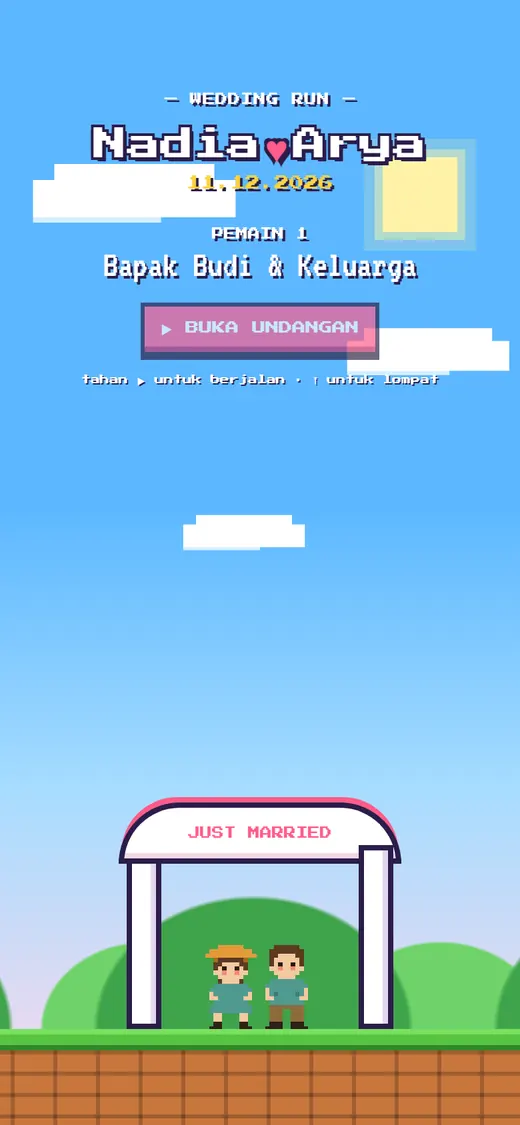
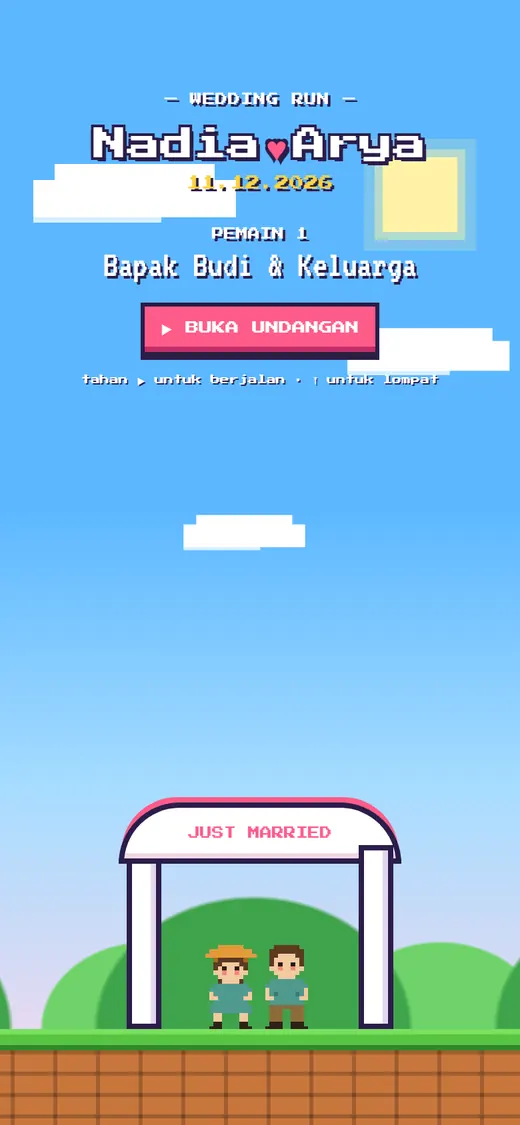
Wedding Run: kunci ke kolom portrait seperti HP

Changed region(s): [[0.2462, 0.2489, 0.7385, 0.3422], [0.4923, 0.1244, 0.5538, 0.1556]]

diff --git a/demo-platform/index.html b/demo-platform/index.html
@@ -20,7 +20,7 @@
 :root{--ink:#2b1d4a;--sky:#5cb8ff;--sky2:#ffd9ec;--grass:#57c443;--dirt:#c8763c;--pink:#ff5c8a;--gold:#ffd23f;--card:#fff8e7;--u-ink:#2b1d4a;--u-bg:#fff8e7}
 *{box-sizing:border-box;margin:0;padding:0}
 html,body{height:100%;overflow:hidden;overscroll-behavior:none}
-body{font-family:'VT323',monospace;font-size:20px;line-height:1.15;color:var(--ink);background:var(--sky);-webkit-font-smoothing:none;-webkit-user-select:none;user-select:none;-webkit-tap-highlight-color:transparent}
+body{font-family:'VT323',monospace;font-size:20px;line-height:1.15;color:var(--ink);background:#2b1d4a radial-gradient(circle 1.5px,#fff8 98%,transparent) 0 0/34px 34px;-webkit-font-smoothing:none;-webkit-user-select:none;user-select:none;-webkit-touch-callout:none;-webkit-tap-highlight-color:transparent}
 #u-root{display:contents}
 input,textarea,select{-webkit-user-select:text;user-select:text}
 /* ===== langit & latar parallax (--x = posisi kamera) ===== */
@@ -38,6 +38,8 @@ input,textarea,select{-webkit-user-select:text;user-select:text}
   background:linear-gradient(#7be05f 0 4px,var(--grass) 4px 12px,#2f8a2a 12px 16px,transparent 16px),
   linear-gradient(90deg,rgba(0,0,0,.2) 3px,transparent 3px) 0 16px/32px 32px,linear-gradient(rgba(0,0,0,.2) 3px,transparent 3px) 0 16px/32px 16px,var(--dirt)}
 /* ===== cover = layar judul ===== */
+/* selalu kolom portrait seperti HP (tema lain juga ±480px), juga di laptop/tablet */
+.cover,.game{left:50%!important;right:auto!important;width:min(100%,480px);translate:-50% 0;box-shadow:0 0 0 4px var(--ink),0 0 60px rgba(0,0,0,.5)}
 .cover{position:fixed;inset:0;z-index:60;overflow:hidden;transition:opacity .6s steps(4),visibility .6s}
 .cover.hide{opacity:0;visibility:hidden}
 .cover .hills{bottom:72px}
@@ -62,7 +64,7 @@ input,textarea,select{-webkit-user-select:text;user-select:text}
 .mini{grid-column:1/-1;position:relative;height:6px;background:rgba(43,29,74,.5);border:2px solid #fff;margin-top:2px}
 .mini i{position:absolute;top:-1px;width:4px;height:4px;background:var(--gold)}
 .mini .me{position:absolute;top:-4px;width:10px;height:10px;margin-left:-5px;background:var(--pink);border:2px solid #fff;max-width:none}
-.music{top:8px!important;bottom:auto!important;right:10px!important;width:40px!important;height:40px!important;border-radius:0!important;border:3px solid #fff!important;background:var(--ink)!important;color:#fff!important;z-index:7!important}
+.music{top:8px!important;bottom:auto!important;right:max(10px,calc(50% - 230px))!important;width:40px!important;height:40px!important;border-radius:0!important;border:3px solid #fff!important;background:var(--ink)!important;color:#fff!important;z-index:7!important}
 /* ===== sprite pasangan ===== */
 .duo{position:absolute;left:0;bottom:72px;width:84px;height:64px;z-index:4;will-change:translate}
 .ch{position:absolute;bottom:0;width:40px;height:64px}.ch svg{position:absolute;inset:0;width:100%;height:100%}
